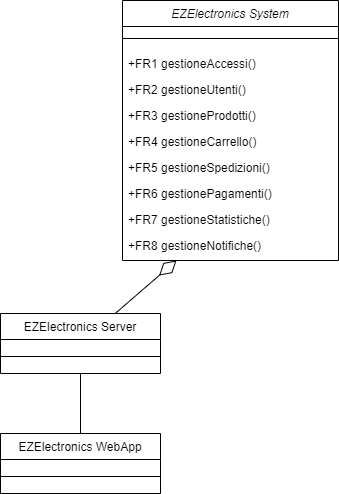
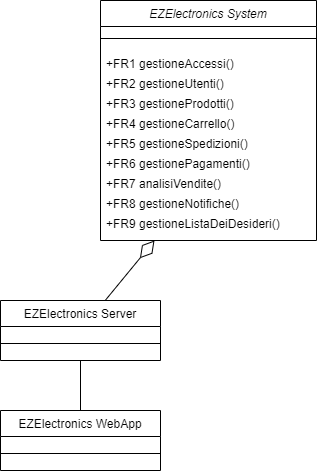
Changed Deplyment + systemDesignv2

Changed region(s): [[0.3123, 0.0, 1.0, 0.5932], [0.0, 0.5932, 0.511, 1.0]]

diff --git a/RequirementsDocumentV2.md b/RequirementsDocumentV2.md
@@ -218,12 +218,16 @@ Storia: vuole regalare a suo figlio una console da gioco, <u>spedendola ad un in
 | NFR11| Portabilità  | Il sito web deve essere accessibile dai seguenti browser (specificando la versione più vecchia supportata): Chrome (v: 79), Firefox (v: 72), Safari (v: 13.0.5), Opera (v: 65), Edge (v: 79), Samsung Internet (v: 11.2) |/|
 
 # Use case diagram and use cases
+
 ## Use Case Diagram Summary
+
 ![useCaseDiagram](./img/diagrammaCasiDusoSummaryV2.png)
+
 ## Use case diagram
+
 ![useCaseDiagram](./img/diagrammaCasiDusoV2.png)
 
-### Use case 1.1, UC1.1 Login
+### Use case 1.1, UC1.1
 
 | Actors Involved  |                           Utente                           |
 | :--------------: | :--------------------------------------------------------: |
@@ -246,7 +250,7 @@ Storia: vuole regalare a suo figlio una console da gioco, <u>spedendola ad un in
 |       4        |        Il sistema valida i dati        |
 |       5        |        L'utente risulta loggato        |
 
-### Use case 1.2, UC1.2 Logout
+### Use case 1.2, UC1.2
 
 | Actors Involved  |                                          Utente                                           |
 | :--------------: | :---------------------------------------------------------------------------------------: |
@@ -266,7 +270,7 @@ Storia: vuole regalare a suo figlio una console da gioco, <u>spedendola ad un in
 |       1        | L'utente chiede al sistema di effettuare il logout |
 |       2        |     Il sistema effettua il logout per l'utente     |
 
-### Use case 1.3, UC1.3 Possibilità di ottenere le informazioni relative all'utente correntemente loggato
+### Use case 1.3, UC1.3
 
 | Actors Involved  |                                        Utente                                        |
 | :--------------: | :----------------------------------------------------------------------------------: |
@@ -286,7 +290,7 @@ Storia: vuole regalare a suo figlio una console da gioco, <u>spedendola ad un in
 |       1        |    L'utente chiede al sistema di mostrare le sue informazioni    |
 |       2        |           Il sistema mostra le informazioni all'utente           |
 
-### Use case 2.1 , UC2.1 Registrazione
+### Use case 2.1 , UC2.1
 
 | Actors Involved  |                      Utente guest                      |
 | :-------------:  | :----------------------------------------------------: |
@@ -309,7 +313,7 @@ Storia: vuole regalare a suo figlio una console da gioco, <u>spedendola ad un in
 |       4        | L'utente seleziona il ruolo con cui registrarsi(manager o utente) |
 |       5        |  il sistema salva i dati e viene creato il nuovo utente/manager   |
 
-### Use case 2.2 , UC2.2 Modifica delle informazioni utente: username di un cliente loggato
+### Use case 2.2 , UC2.2
 
 | Actors Involved  |                                          Cliente                                           |
 | :--------------: | :---------------------------------------------------------------------------------------: |
@@ -347,7 +351,7 @@ Storia: vuole regalare a suo figlio una console da gioco, <u>spedendola ad un in
 |       5        |                Il sistema verifica che lo username sia disponibile                 |
 |       6        | Lo username non è disponibile: il sistema mostra un errore e la procedura riprende dallo step #3 |
 
-### Use case 2.3 , UC2.3 Modifica delle informazioni utente: email di un cliente loggato
+### Use case 2.3 , UC2.3
 
 | Actors Involved  |                                          Cliente                                           |
 | :--------------: | :---------------------------------------------------------------------------------------: |
@@ -385,7 +389,7 @@ Storia: vuole regalare a suo figlio una console da gioco, <u>spedendola ad un in
 |       5        |                Il sistema invia un'email di verifica alla casella di posta elettronica del cliente |
 |       6        | Il sistema non riceve conferma della verifica della nuova email, le informazioni del cliente risultano invariate |
 
-### Use case 2.4 , UC2.4 Modifica delle informazioni utente: password di un utente loggato
+### Use case 2.4 , UC2.4
 
 | Actors Involved  |                                          Utente                                          |
 | :--------------: | :---------------------------------------------------------------------------------------: |
@@ -423,7 +427,7 @@ Storia: vuole regalare a suo figlio una console da gioco, <u>spedendola ad un in
 |       5        |                     Il sistema verifica che le password inserite combacino                     |
 |       6        | Le password non combaciano: il sistema mostra un errore e la procedura riprende dallo step #3 |
 
-### Use case 3.1, UC3.1 Visualizza tutti i prodotti
+### Use case 3.1, UC3.1
 
 | Actors Involved  |                                 Cliente/Manager                                   |
 | :--------------: | :-------------------------------------------------------------------------------: |
@@ -443,7 +447,7 @@ Storia: vuole regalare a suo figlio una console da gioco, <u>spedendola ad un in
 |       1        | L'utente chiede al sistema di visualizzare tutti i prodotti presenti |
 |       2        |             Il sistema mostra tutti i prodotti presenti              |
 
-### Use case 3.2, UC3.2 Aggiungi nuovo prodotto
+### Use case 3.2, UC3.2
 
 | Actors Involved  |                                   Manager                                     |
 | :--------------: | :---------------------------------------------------------------------------: |
@@ -466,7 +470,7 @@ Storia: vuole regalare a suo figlio una console da gioco, <u>spedendola ad un in
 |       4        |           Il sistema valida i dati e li salva           |
 |       5        |        Il prodotto viene aggiunto correttamente         |
 
-### Use case 3.3, UC3.3 Rimozione di un prodotto
+### Use case 3.3, UC3.3
 
 | Actors Involved  |                                          Manager                                           |
 | :--------------: | :----------------------------------------------------------------------------------------: |
@@ -489,7 +493,7 @@ Storia: vuole regalare a suo figlio una console da gioco, <u>spedendola ad un in
 |       4        |         Il sistema verifica che il codice sia presente          |
 |       5        |                    Il prodotto viene rimosso                    |
 
-### Use case 3.4, UC3.4 Registrazione dell'arrivo di un nuovo (insieme di) prodotto/i
+### Use case 3.4, UC3.4
 
 | Actors Involved  |                                         Manager                                           |
 | :--------------: | :---------------------------------------------------------------------------------------: |
@@ -512,7 +516,7 @@ Storia: vuole regalare a suo figlio una console da gioco, <u>spedendola ad un in
 |       4        |                    Il sistema valida i dati e li salva                    |
 |       5        |                  L'arrivo viene registrato correttamente                  |
 
-### Use case 3.5, UC3.5 Filtraggio di prodotti per categoria, modello, codice e disponibilità
+### Use case 3.5, UC3.5
 
 | Actors Involved  |                                     Utente/Manager                                     |
 | :--------------: | :------------------------------------------------------------------------------------: |
@@ -534,7 +538,7 @@ Storia: vuole regalare a suo figlio una console da gioco, <u>spedendola ad un in
 |       3        |                           L'utente inserisce il filtro                            |
 |       4        |     Il sistema mostra i prodotti appartenenti al filtro inserito dall'utente      |
 
-### Use case 3.6, UC3.6 Cataloga prodotto come venduto
+### Use case 3.6, UC3.6
 
 | Actors Involved  |                               Manager                                |
 | :--------------: | :------------------------------------------------------------------: |
@@ -555,7 +559,7 @@ Storia: vuole regalare a suo figlio una console da gioco, <u>spedendola ad un in
 |       2        |                                 Il sistema valida le informazioni                                 |
 |       3        |                                    Il prodotto risulta venduto                                    |
 
-### Use case 3.7, UC3.7 Aggiungi sconto ad un prodotto
+### Use case 3.7, UC3.7
 
 | Actors Involved  |                    Manager                    |
 | :--------------: | :-------------------------------------------: |
@@ -576,7 +580,7 @@ Storia: vuole regalare a suo figlio una console da gioco, <u>spedendola ad un in
 |       2        |           Il manager inserisce la percentuale di sconto           |
 |       3        |        Lo sconto viene aggiunto correttamente al prodotto         |
 
-### Use case 3.8, UC3.8 Filtra prodotti per sconto (????)
+### Use case 3.8, UC3.8
 
 | Actors Involved  |                                      Cliente/Manager                                          |
 | :--------------: | :-------------------------------------------------------------------------------------------: |
@@ -596,7 +600,7 @@ Storia: vuole regalare a suo figlio una console da gioco, <u>spedendola ad un in
 |       1        |                    L'utente chiede di filtrare i prodotti per sconto e inserisce lo sconto                      |
 |       2        | Il sistema mostra solo i prodotti che risultano avere lo sconto uguale o maggiore a quello inserito dall'utente |
 
-### Use case 3.9, UC3.9 Traccia prezzo di un prodotto
+### Use case 3.9, UC3.9
 
 | Actors Involved  |                      Cliente/Manager                         |
 | :--------------: | :----------------------------------------------------------: |
@@ -616,7 +620,7 @@ Storia: vuole regalare a suo figlio una console da gioco, <u>spedendola ad un in
 |       1        |           Il cliente seleziona il prodotto di cui vuole tracciare il prezzo            |
 |       2        | Il sistema invia una notifica ogni volta che il prezzo del prodotto selezionato cambia |
 
-### Use case 3.10, UC3.10 Visualizza lista dei desideri
+### Use case 3.10, UC3.10
 
 | Actors Involved  |                                                Cliente                                                |
 | :--------------: | :---------------------------------------------------------------------------------------------------: |
@@ -636,7 +640,7 @@ Storia: vuole regalare a suo figlio una console da gioco, <u>spedendola ad un in
 |       1        | Il cliente chiede di visualizzare la sua lista dei desideri |
 |       2        |   Il sistema mostra al cliente la sua lista dei desideri    |
 
-### Use case 3.11, UC3.11 Aggiungi prodotto alla lista dei desideri
+### Use case 3.11, UC3.11
 
 | Actors Involved  |                                           Cliente                                           |
 | :--------------: | :-----------------------------------------------------------------------------------------: |
@@ -656,7 +660,7 @@ Storia: vuole regalare a suo figlio una console da gioco, <u>spedendola ad un in
 |       1        | Il cliente chiede di aggiungere un prodotto alla lista dei desideri |
 |       2        |             Il sistema aggiunge il prodotto alla lista              |
 
-### Use case 3.12, UC3.12 Rimuovi prodotto dalla lista dei desideri
+### Use case 3.12, UC3.12
 
 | Actors Involved  |                                          Cliente                                          |
 | :--------------: | :---------------------------------------------------------------------------------------: |
@@ -676,7 +680,7 @@ Storia: vuole regalare a suo figlio una console da gioco, <u>spedendola ad un in
 |       1        | Il cliente chiede di aggiungere un prodotto alla lista dei desideri |
 |       2        |             Il sistema rimuove il prodotto dalla lista              |
 
-### Use case 4.1, UC4.1 Visualizzazione del carrello attuale del cliente
+### Use case 4.1, UC4.1
 
 | Actors Involved  |                                  Cliente                                   |
 | :--------------: | :------------------------------------------------------------------------: |
@@ -696,7 +700,7 @@ Storia: vuole regalare a suo figlio una console da gioco, <u>spedendola ad un in
 |       1        | Il cliente chiede di visualizzare il suo carrello attuale |
 |       2        |          Il sistema mostra il carrello corrente           |
 
-### Use case 4.2, UC4.2 Aggiunta di un prodotto al carrello attuale
+### Use case 4.2, UC4.2
 
 | Actors Involved  |                                                 Cliente                                                 |
 | :--------------: | :-----------------------------------------------------------------------------------------------------: |
@@ -717,7 +721,7 @@ Storia: vuole regalare a suo figlio una console da gioco, <u>spedendola ad un in
 |       2        | Il sistema verifica che il prodotto possa essere aggiunto  |
 |       3        |          Il prodotto risulta aggiunto al carrello          |
 
-### Use case 4.3, UC4.3 Rimozione di un prodotto dal carrello attuale
+### Use case 4.3, UC4.3
 
 | Actors Involved  |                                              Cliente                                               |
 | :--------------: | :------------------------------------------------------------------------------------------------: |
@@ -738,7 +742,7 @@ Storia: vuole regalare a suo figlio una console da gioco, <u>spedendola ad un in
 |       2        |     Il sistema verifica che il prodotto sia rimovibile      |
 |       3        |          Il prodotto risulta rimosso correttamente          |
 
-### Use case 4.4, UC4.4 Acquisto dei prodotti aggiunti al carrello attuale
+### Use case 4.4, UC4.4
 
 | Actors Involved  |                                 Cliente                                 |
 | :--------------: | :---------------------------------------------------------------------: |
@@ -760,7 +764,7 @@ Storia: vuole regalare a suo figlio una console da gioco, <u>spedendola ad un in
 |       3        |   Il sistema calcola il totale del carrello e imposta la data di pagamento   |
 |       4        |                        Il carrello risulta acquistato                        |
 
-### Use case 4.5 , UC4.5 Visualizzazione della cronologia dei carrelli acquistati dal cliente
+### Use case 4.5 , UC4.5
 
 | Actors Involved  |                            Cliente                            |
 | :--------------: | :-----------------------------------------------------------: |
@@ -780,7 +784,7 @@ Storia: vuole regalare a suo figlio una console da gioco, <u>spedendola ad un in
 |       1        | Il cliente chiede di visualizzare la storia dei suoi carrelli |
 |       2        |     Il sistema mostra la storia dei carrelli del cliente      |
 
-### Use case 4.6 , UC4.6 Cancellazione del carrello
+### Use case 4.6 , UC4.6
 
 | Actors Involved  |                         Cliente                          |
 | :--------------: | :------------------------------------------------------: |
@@ -800,7 +804,7 @@ Storia: vuole regalare a suo figlio una console da gioco, <u>spedendola ad un in
 |       1        | Il cliente chiede di cancellare il suo carrello attuale  |
 |       2        |         Il sistema elimina il carrello corrente          |
 
-### Use case 5.1 , UC5.1 Aggiunta nuovo indirizzo di spedizione
+### Use case 5.1 , UC5.1
 
 | Actors Involved  |                   Cliente, servizio spedizioni                   |
 | :--------------: | :--------------------------------------------------------------: |
@@ -821,7 +825,7 @@ Storia: vuole regalare a suo figlio una console da gioco, <u>spedendola ad un in
 |       2        |        Il sistema verifica che l'indirizzo sia corretto        |
 |       3        |            L'indirizzo di spedizione viene aggiunto            |
 
-### Use case 5.2 , UC5.2 Modifica indirizzo di spedizione
+### Use case 5.2 , UC5.2
 
 | Actors Involved  |                Cliente, Servizio spedizioni                |
 | :--------------: | :--------------------------------------------------------: |
@@ -842,7 +846,7 @@ Storia: vuole regalare a suo figlio una console da gioco, <u>spedendola ad un in
 |       2        |  Il sistema verifica che il nuovo indirizzo sia corretto   |
 |       3        |         L'indirizzo di spedizione viene modificato         |
 
-### Use case 5.3 , UC5.3 Eliminazione indirizzo di spedizione
+### Use case 5.3 , UC5.3
 
 | Actors Involved  |               Cliente, Servizio spedizioni                |
 | :--------------: | :-------------------------------------------------------: |
@@ -862,7 +866,7 @@ Storia: vuole regalare a suo figlio una console da gioco, <u>spedendola ad un in
 |       1        | Il cliente chiede di eliminare un indirizzo di spedizione |
 |       2        |         L'indirizzo di spedizione viene eliminato         |
 
-### Use case 5.4 , UC5.4 Visualizza stato ordine
+### Use case 5.4 , UC5.4
 
 | Actors Involved  |              Cliente, Servizio spedizioni               |
 | :--------------: | :-----------------------------------------------------: |
@@ -884,7 +888,7 @@ Storia: vuole regalare a suo figlio una console da gioco, <u>spedendola ad un in
 
 ## Gestione pagamenti
 
-### Use case 6.1, UC6.1 Aggiungi metodo di pagamento
+### Use case 6.1, UC6.1
 
 | Actors Involved  |             Cliente, Servizio di pagamento                   |
 | :--------------: | :----------------------------------------------------------: |
@@ -926,7 +930,7 @@ Storia: vuole regalare a suo figlio una console da gioco, <u>spedendola ad un in
 |       1        |  Il cliente seleziona il metodo di pagamento che vuole rimuovere  |
 |       2        | Il sistema rimuove il metodo di pagamento selezionato dal cliente |
 
-### Use case 7.1, UC7.1 Visualizza statistiche ordini (???)
+### Use case 7.1, UC7.1
 
 | Actors Involved  |       Cliente        |
 | :--------------: | :------------------: |
@@ -946,7 +950,7 @@ Storia: vuole regalare a suo figlio una console da gioco, <u>spedendola ad un in
 |       1        |                      |
 |       2        |                      |
 
-### Use case 7.2, UC7.2 Visualizza statistiche prodotti venduti
+### Use case 7.2, UC7.2
 
 | Actors Involved  |                                              Manager                                              |
 | :--------------: | :-----------------------------------------------------------------------------------------------: |
@@ -967,7 +971,7 @@ Storia: vuole regalare a suo figlio una console da gioco, <u>spedendola ad un in
 |       2        | Il manager inserisce il range di date all'interno del quale vuole visualizzare le statistiche dei prodotti venduti |
 |       3        |     Il sistema mostra le statistiche relative alle vendite dei prodotti nel range di date inserito dal manager     |
 
-### Use case 8.1, UC8.1 Visualizzazione delle notifiche
+### Use case 8.1, UC8.1
 
 | Actors Involved  |                              Utente                               |
 | :--------------: | :---------------------------------------------------------------: |
